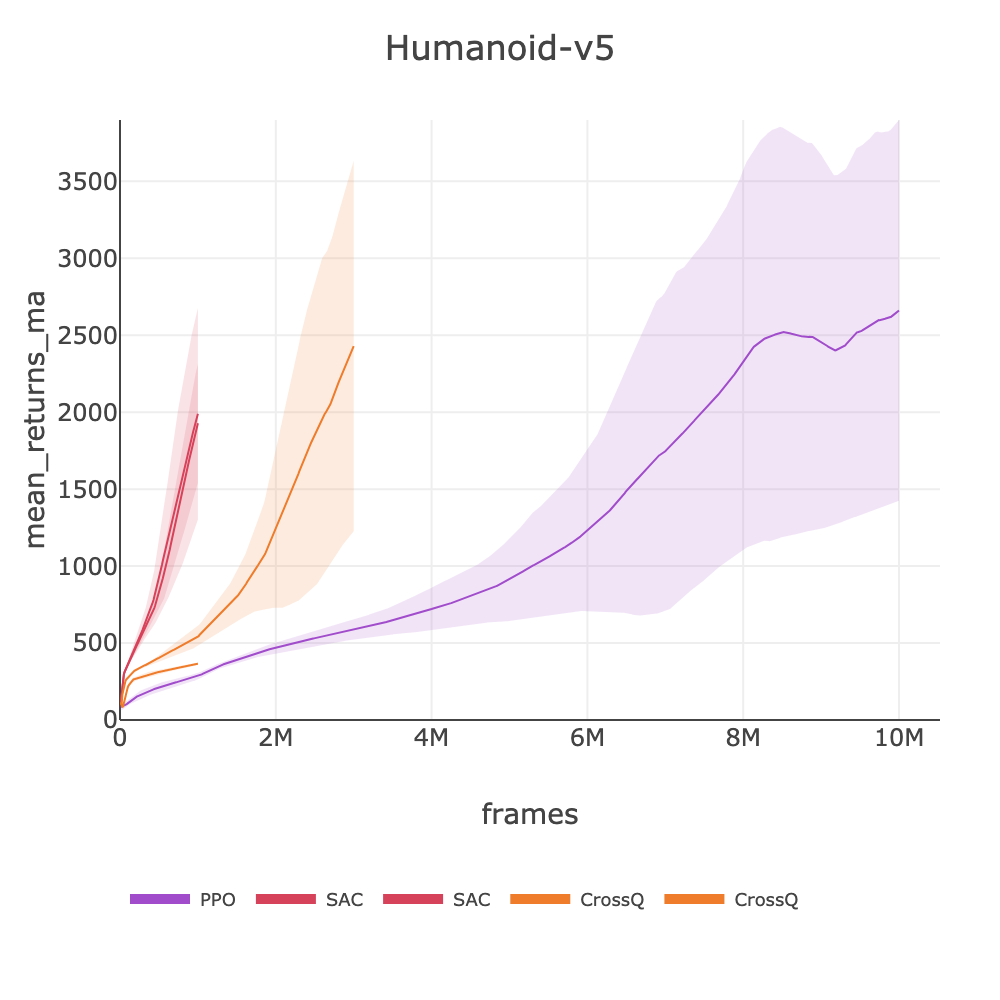
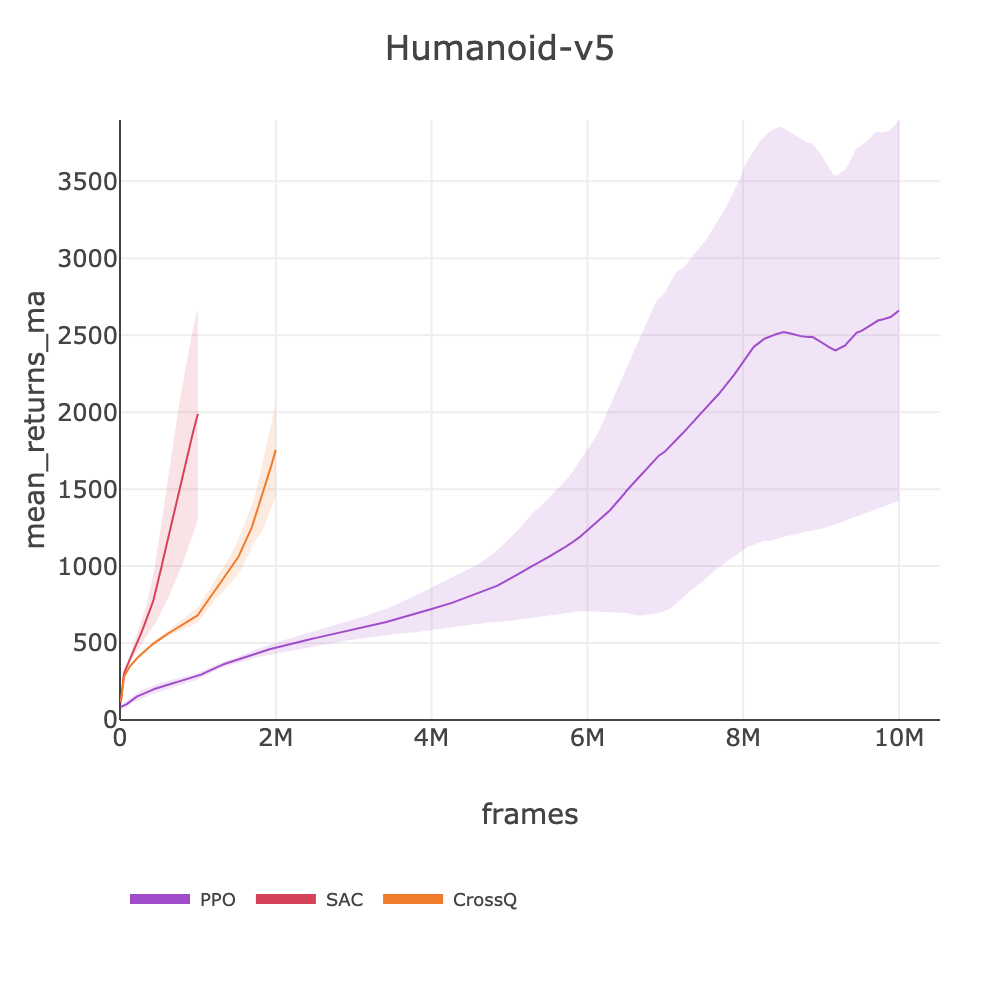
docs: update CrossQ Humanoid score 1850→1102 and plot

diff --git a/docs/BENCHMARKS.md b/docs/BENCHMARKS.md
@@ -320,7 +320,7 @@ source .env && slm-lab run-remote --gpu \
 |-----------|--------|-----|-----------|-----------|---------|
 | PPO | ✅ | 2661.26 | [slm_lab/spec/benchmark_arc/ppo/ppo_mujoco_arc.yaml](../slm_lab/spec/benchmark_arc/ppo/ppo_mujoco_arc.yaml) | ppo_mujoco_arc | [ppo_mujoco_arc_humanoid_2026_02_12_185439](https://huggingface.co/datasets/SLM-Lab/benchmark/tree/main/data/ppo_mujoco_arc_humanoid_2026_02_12_185439) |
 | SAC | ✅ | 1989.65 | [slm_lab/spec/benchmark_arc/sac/sac_mujoco_arc.yaml](../slm_lab/spec/benchmark_arc/sac/sac_mujoco_arc.yaml) | sac_humanoid_arc | [sac_humanoid_arc_2026_02_12_020016](https://huggingface.co/datasets/SLM-Lab/benchmark/tree/main/data/sac_humanoid_arc_2026_02_12_020016) |
-| CrossQ | ✅ | 1850.44 | [slm_lab/spec/benchmark/crossq/crossq_mujoco.yaml](../slm_lab/spec/benchmark/crossq/crossq_mujoco.yaml) | crossq_humanoid | [crossq_humanoid_ln_i2_2026_02_22_014755](https://huggingface.co/datasets/SLM-Lab/benchmark/tree/main/data/crossq_humanoid_ln_i2_2026_02_22_014755) |
+| CrossQ | ✅ | 1102.00 | [slm_lab/spec/benchmark/crossq/crossq_mujoco.yaml](../slm_lab/spec/benchmark/crossq/crossq_mujoco.yaml) | crossq_humanoid | [crossq_humanoid_2026_03_01_165208](https://huggingface.co/datasets/SLM-Lab/benchmark/tree/main/data/crossq_humanoid_2026_03_01_165208) |
 
 ![Humanoid-v5](plots/Humanoid-v5_multi_trial_graph_mean_returns_ma_vs_frames.png)
 
